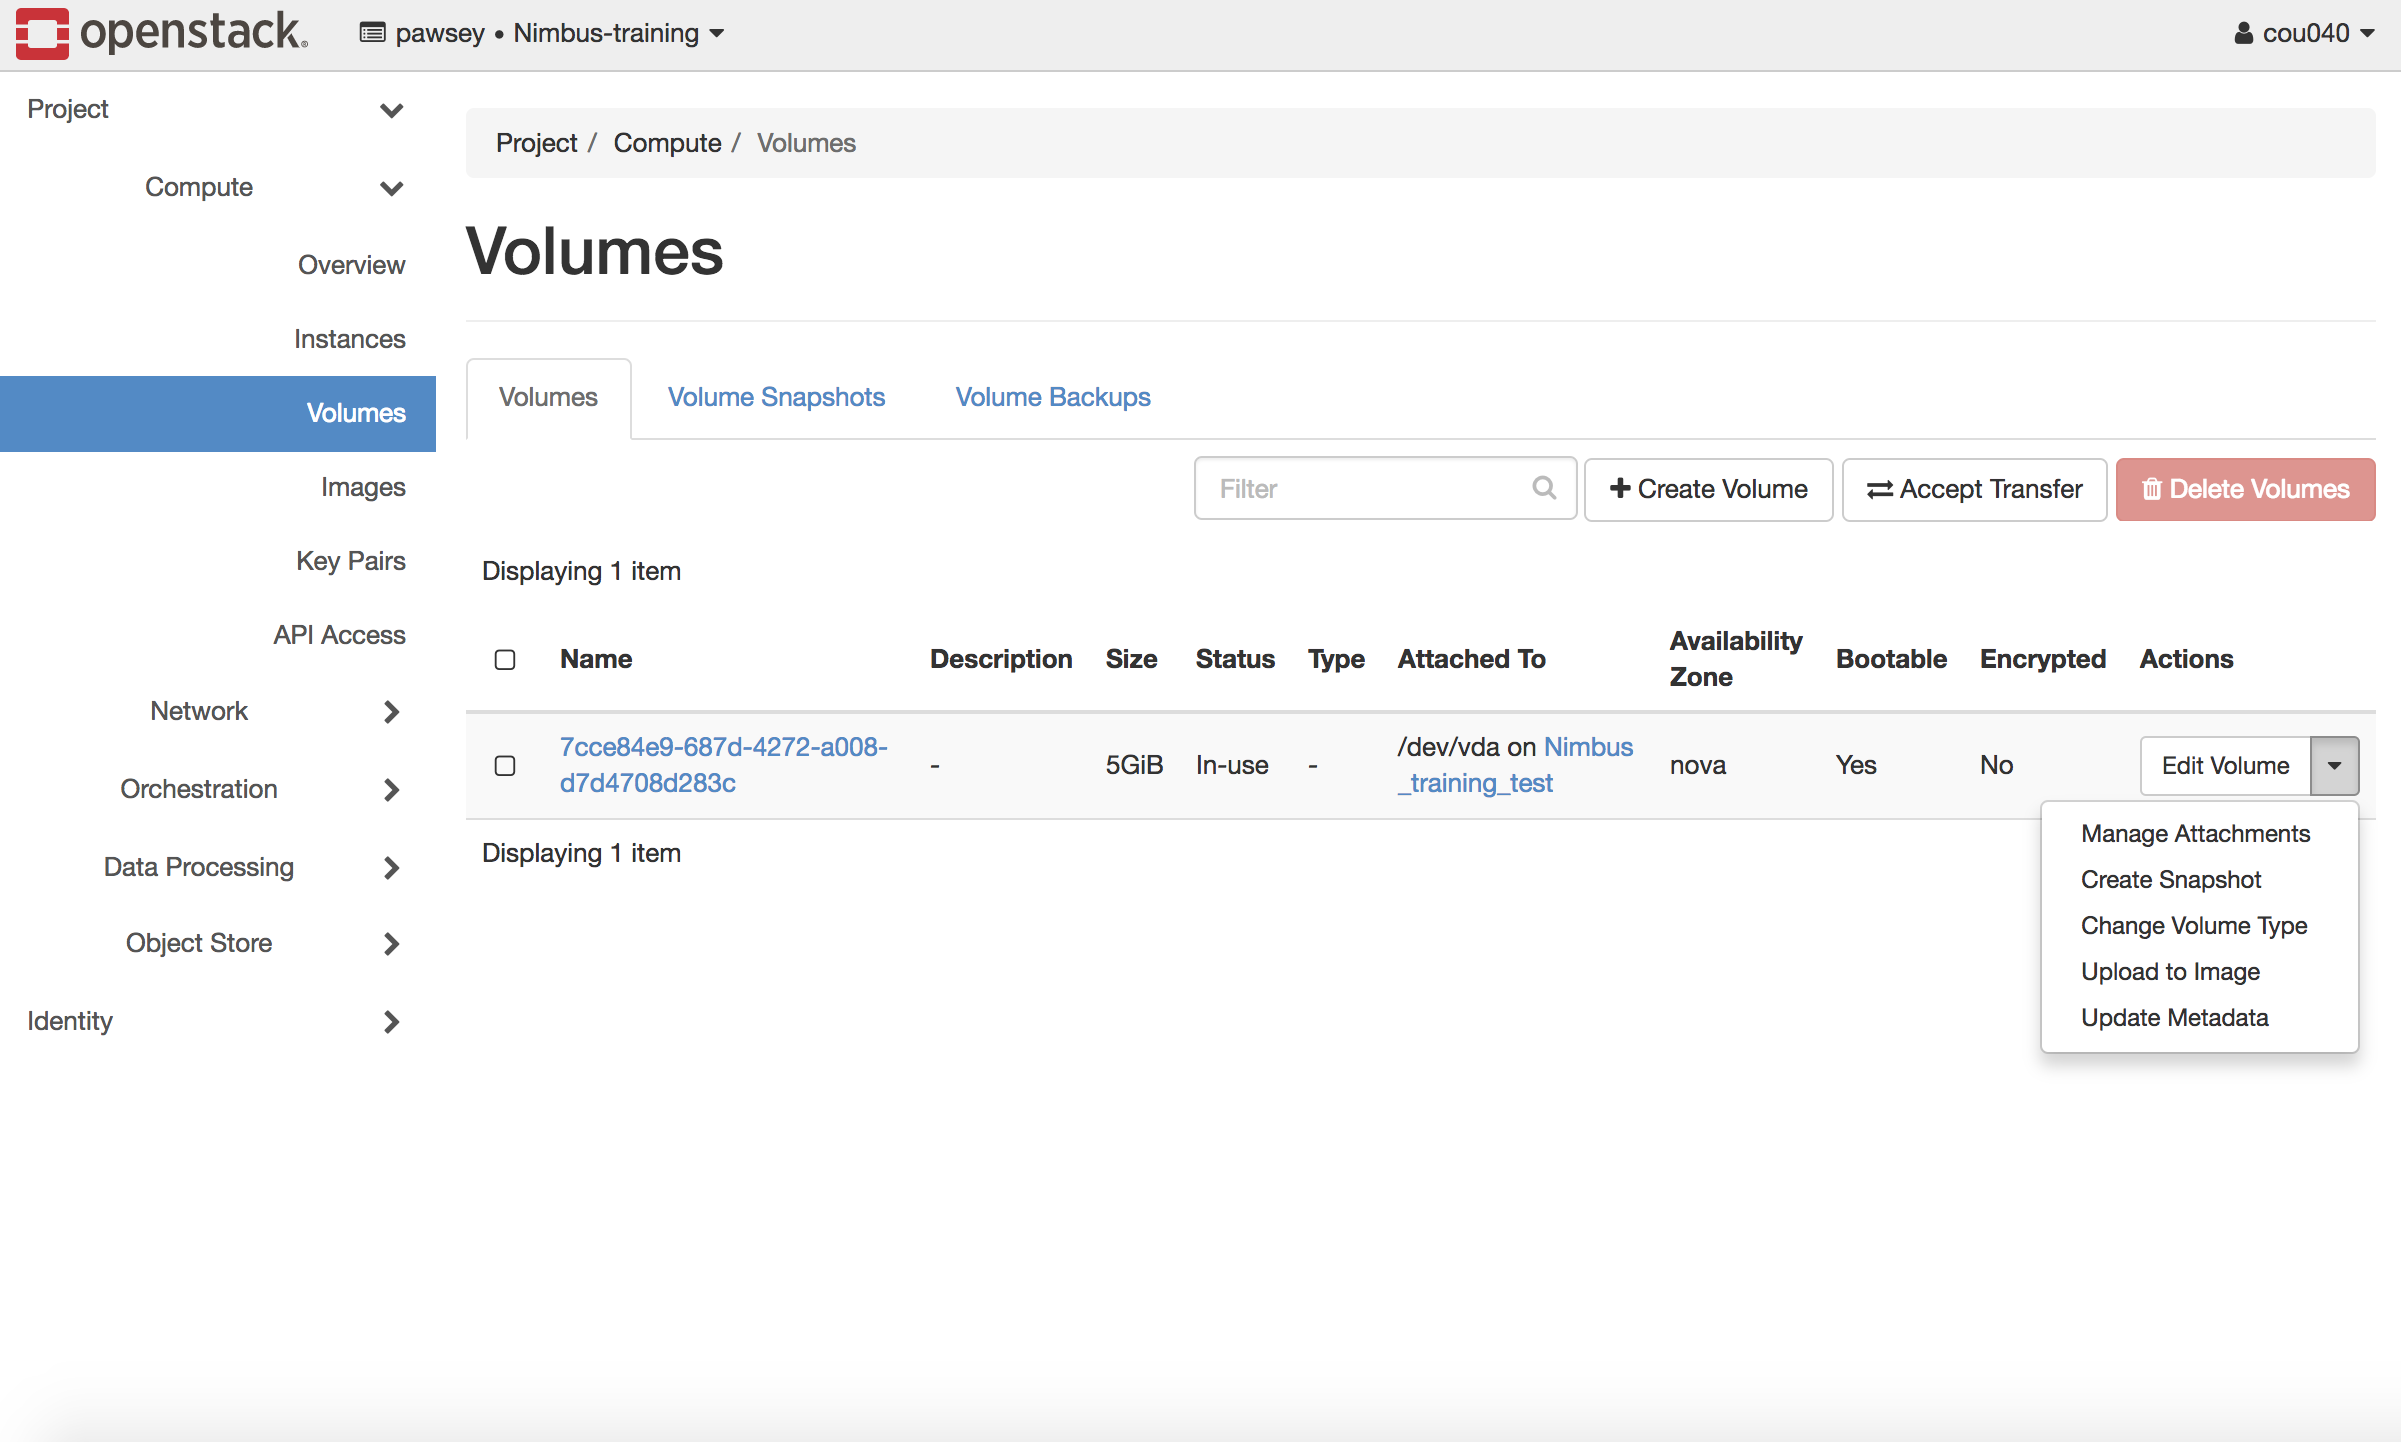
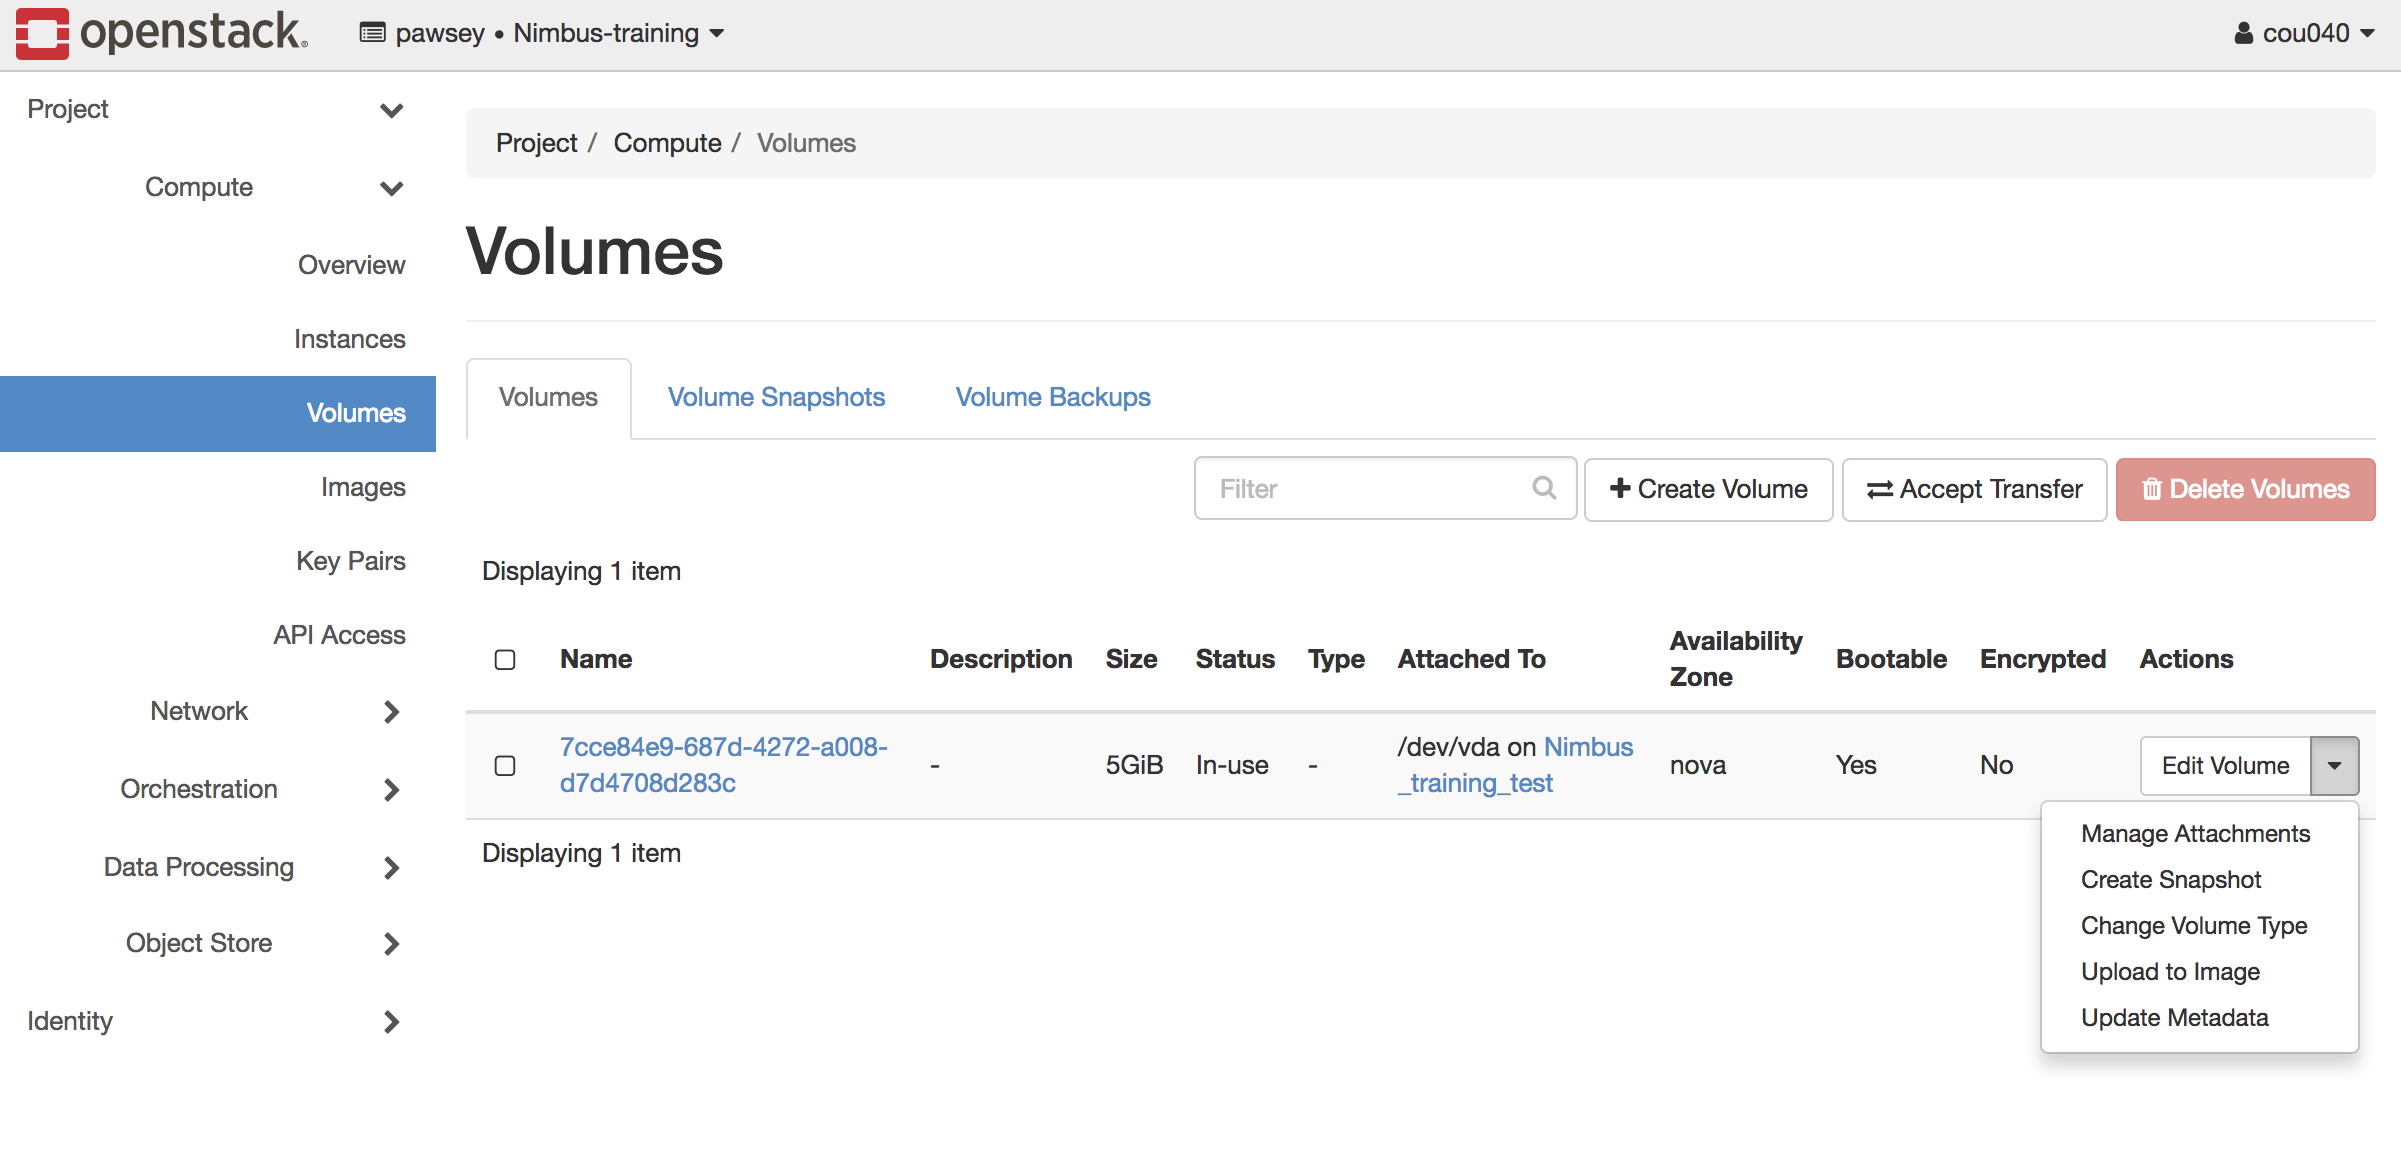
Shrink Volumes images

diff --git a/_episodes/07-attaching-storage.md b/_episodes/07-attaching-storage.md
@@ -3,12 +3,12 @@ title: "Attaching volume storage"
 teaching: 30
 exercises: 0
 questions:
-- "How do you setup volumes and store data?"
+- "How do you set up volumes and store data?"
 objectives:
 - "Attach and use a data volume with your instance."
 keypoints:
 - "You learned how to create a new volume and attach it to your instance."
-- "You learned how to create a new filesystem and mount it to your instance"
+- "You learned how to create a new filesystem and mount it in your instance."
 ---
 
 **There are two types of built-in storage**
